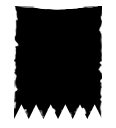
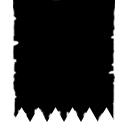
Update old government frames and add AUH new government frames

Changed region(s): [[0.0776, 0.0, 0.9052, 0.9688]]

diff --git a/src/components/PreviewCanvas.vue b/src/components/PreviewCanvas.vue
@@ -110,13 +110,20 @@
         >
           <option value="default">{{ $t('government_default') }}</option>
           <option value="administrative">{{ $t('government_administrative') }}</option>
+          <option value="celestial">{{ $t('government_celestial') }}</option>
           <option value="clan">{{ $t('government_clan') }}</option>
           <option value="herder">{{ $t('government_herder') }}</option>
+          <option value="japan_administrative">{{ $t('government_japan_administrative') }}</option>
+          <option value="japan_feudal">{{ $t('government_japan_feudal') }}</option>
           <option value="landless">{{ $t('government_landless') }}</option>
+          <option value="mandala">{{ $t('government_mandala') }}</option>
+          <option value="meritocratic">{{ $t('government_meritocratic') }}</option>
           <option value="nomad">{{ $t('government_nomad') }}</option>
           <option value="republic">{{ $t('government_republic') }}</option>
           <option value="theocracy">{{ $t('government_theocracy') }}</option>
           <option value="tribal">{{ $t('government_tribal') }}</option>
+          <option value="steppe_admin">{{ $t('government_steppe_admin') }}</option>
+          <option value="wanua">{{ $t('government_wanua') }}</option>
         </select>
       </div>
     </div>
@@ -135,8 +142,8 @@
             <v-group
               ref="coaGroup"
               :config="{
-                x: (defaultWidth - defaultCoatWidth) / 2,
-                y: (defaultHeight - defaultCoatHeight) / 2,
+                x: 0,
+                y: 0,
                 width: defaultCoatWidth,
                 height: defaultCoatHeight,
                 listening: false
@@ -170,7 +177,7 @@
               v-if="topFrameImage"
               :config="{
                 x: 0,
-                y: 0,
+                y: -10,
                 image: topFrameImage,
                 listening: false,
               }"
@@ -205,9 +212,9 @@ const titleWidth = 96
 const titleHeight = 96
 const titleCoatSize = 85
 
-const defaultWidth = 116
+const defaultWidth = 128
 const defaultHeight = 128
-const defaultCoatWidth = 116
+const defaultCoatWidth = 128
 const defaultCoatHeight = 128
 
 const selectedMask = ref('default')
@@ -290,7 +297,23 @@ onMounted(() => {
   imgTitleMask.onload = () => (titleMaskImage.value = imgTitleMask)
 
   // Dynamic loading
-  const maskTypes = ['default', 'administrative', 'clan', 'herder', 'landless', 'nomad', 'republic', 'theocracy', 'tribal']
+  const maskTypes = ['default',
+    'administrative',
+    'celestial',
+    'clan',
+    'herder',
+    'japan_administrative',
+    'japan_feudal',
+    'landless',
+    'mandala',
+    'meritocratic',
+    'nomad',
+    'republic',
+    'theocracy',
+    'tribal',
+    'steppe_admin',
+    'wanua']
+
   maskTypes.forEach((maskType) => {
     // Masks
     const img = new window.Image()
